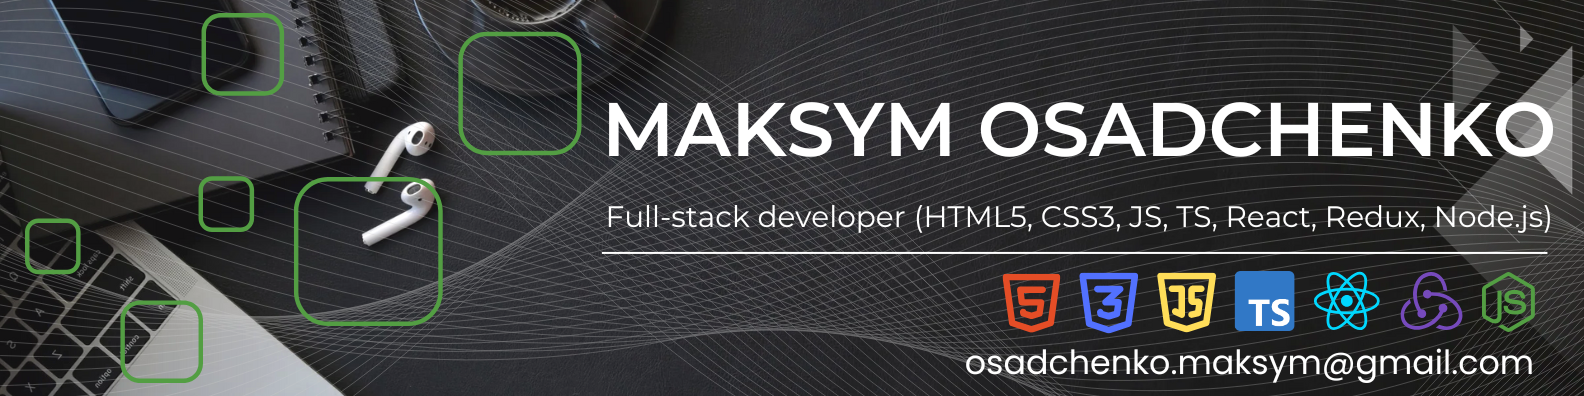
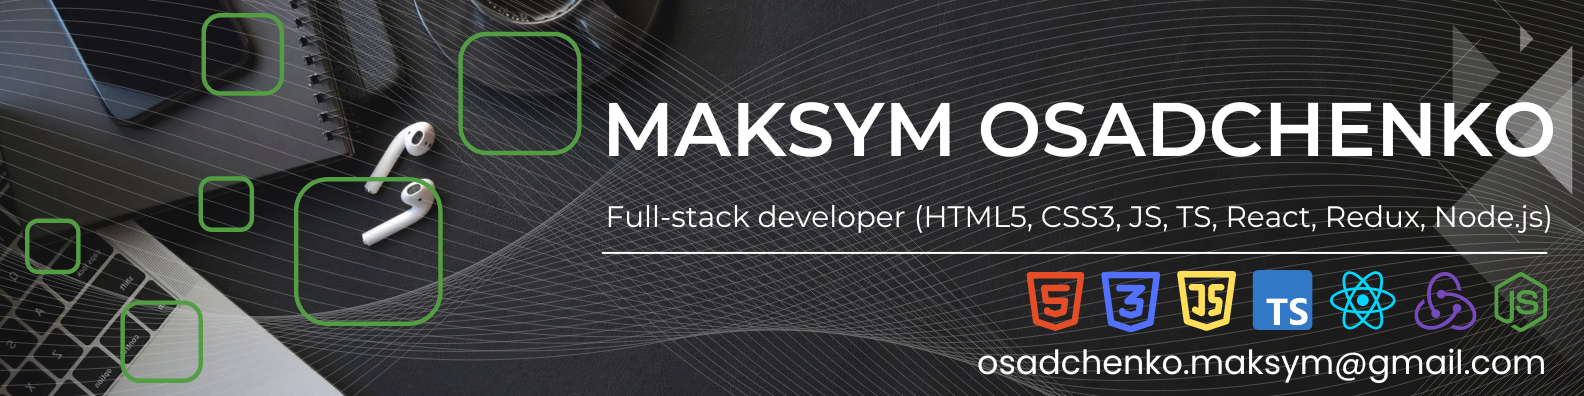
commit

Changed region(s): [[0.6187, 0.6667, 0.9899, 0.8485], [0.5878, 0.8788, 0.9899, 0.9697]]

diff --git a/README.md b/README.md
@@ -3,8 +3,7 @@
 <h1 align="center">Hi there, I'm <a href="https://www.linkedin.com/in/maksym-osadchenko/" target="_blank">Maksym</a> 
 <img src="https://github.com/blackcater/blackcater/raw/main/images/Hi.gif" height="32"/></h1>
 
-<p>I am a front-end developer. As for my skills, I know HTML, CSS, JS, TS, React, Redux.
-I am currently studying Node.js.
+<p>I am a full-stack developer. As for my skills, I know HTML, CSS, JS, TS, React, Redux, Node.js.
 I have been coding for 9 months and during this time I have done 2 successful team projects and 5 individual ones.
 I have good computer skills and quickly learn how to work with various programs.
 I like to do my job well and learn new skills quickly.
@@ -42,6 +41,9 @@ I strive to achieve good positions in the company to increase the pace of produc
     </a></td>
     <a href="https://redux.js.org/">
       <img src="img/redux.svg" alt="redux" width="50">
+    </a>
+    <a href="https://nodejs.org/">
+      <img src="img/node-js.svg" alt="redux" width="56">
     </a>
    <a href="https://www.figma.com/">
       <img src="img/figma.svg" alt="figma" width="35">
